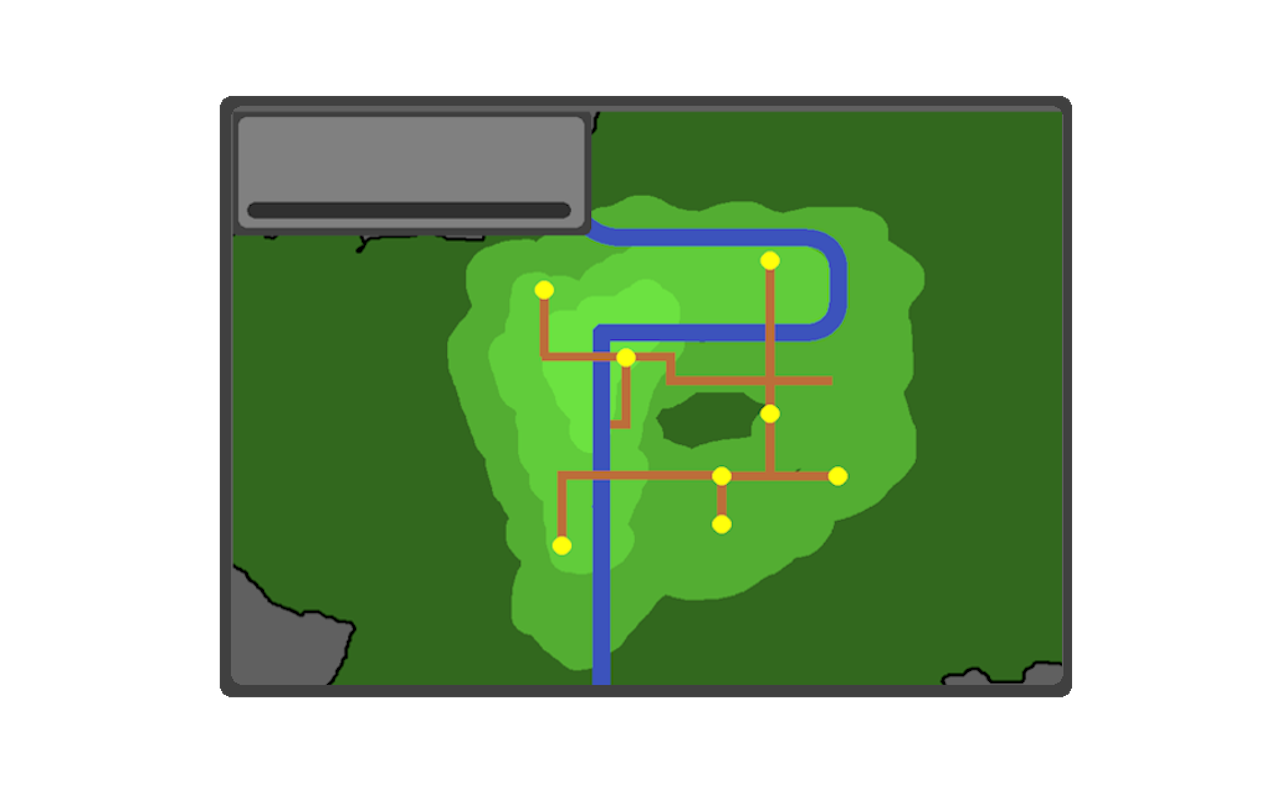
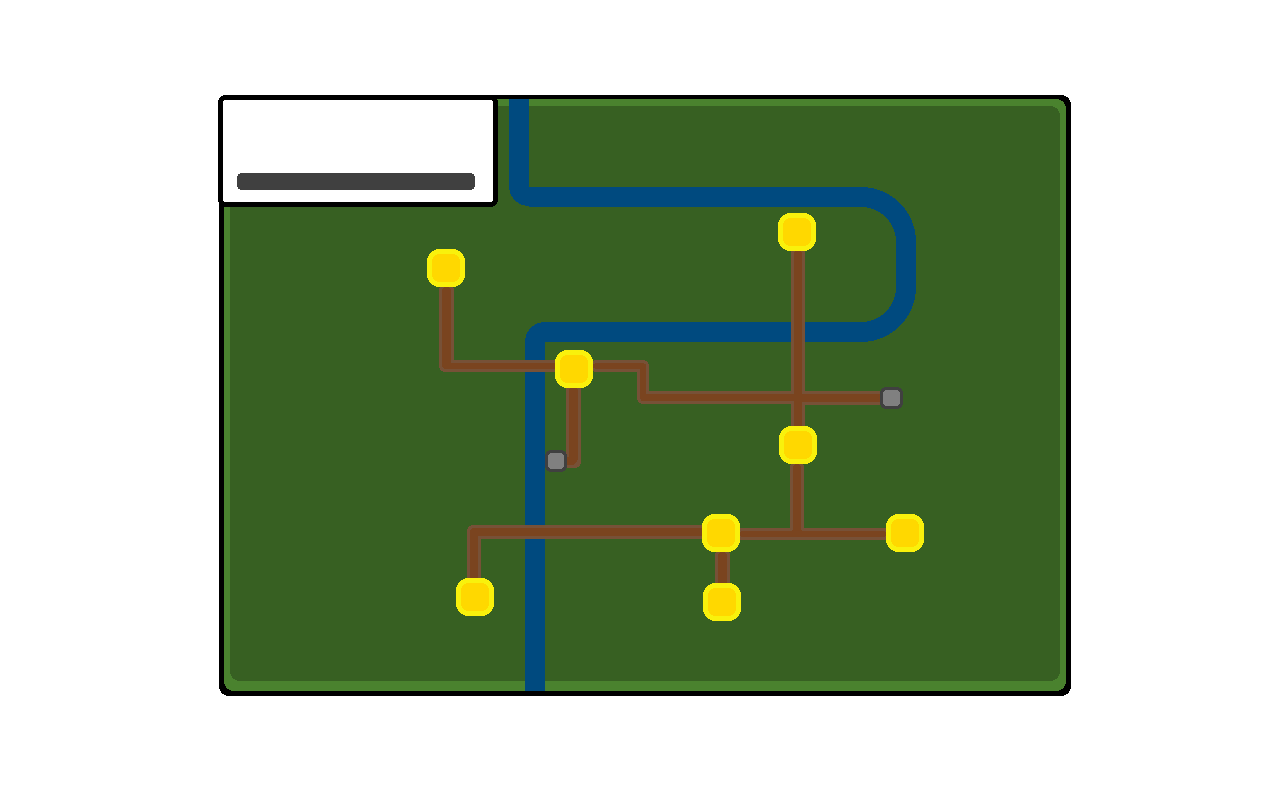
Mapa

Changed region(s): [[0.1525, 0.0936, 0.8538, 0.8739]]

diff --git a/eventy.py b/eventy.py
@@ -1,5 +1,7 @@
 import pygame
 import sys
+
+import battle
 import databaze
 import inventar
 import prahadex
@@ -45,7 +47,7 @@ def handle(hra, event):
             for item in hra.predmety:
                 item.sebrano(hra.mchitboxcol, inventar.inventory)
 
-        if not hra.shop and not hra.show and not hra.shopopen and not hra.show_prahadex and not hra.show_mapa:
+        if not hra.shop and not hra.show and not hra.shopopen and not hra.show_prahadex and not hra.show_mapa and not hra.battle:
             if event.key == pygame.K_ESCAPE:
                 hra.menu = not hra.menu
 
@@ -84,7 +86,8 @@ def handle(hra, event):
         if hra.show_inventar:
             if event.key == pygame.K_ESCAPE:
                 hra.show_inventar = False
-                hra.menu = True
+                if not hra.battle:
+                    hra.menu = True
                 hra.poziceinventare = 1
             if event.key == pygame.K_w:
                 if hra.poziceinventare > 1:
@@ -100,7 +103,8 @@ def handle(hra, event):
         if hra.show_prahadex:
             if event.key == pygame.K_ESCAPE:
                 hra.show_prahadex = False
-                hra.menu = True
+                if not hra.battle:
+                    hra.menu = True
                 hra.poziceinventare = 1
             if event.key == pygame.K_w:
                 if hra.poziceinventare > 1:
@@ -128,21 +132,26 @@ def handle(hra, event):
                 hra.menu = True
 
         if hra.battle:
-            if event.key == pygame.K_a:
-                if hra.pozice > 1:
-                    hra.pozice -= 1
-                elif hra.pozice == 1:
-                    hra.pozice = 4
+            if not hra.show_inventar:
+                if event.key == pygame.K_a:
+                    if hra.pozice > 1:
+                        hra.pozice -= 1
+                    elif hra.pozice == 1:
+                        hra.pozice = 4
 
-            if event.key == pygame.K_d:
-                if hra.pozice < 4:
-                    hra.pozice += 1
-                elif hra.pozice == 4:
-                    hra.pozice = 1
+                if event.key == pygame.K_d:
+                    if hra.pozice < 4:
+                        hra.pozice += 1
+                    elif hra.pozice == 4:
+                        hra.pozice = 1
 
-            if event.key == pygame.K_e:
-                if hra.pozice == 4:
-                    hra.battle = False
+                if event.key == pygame.K_e:
+                    if hra.pozice == 1:
+                        hra.protivnici[0].hp -= 1
+                    elif hra.pozice == 3:
+                        hra.show_inventar = True
+                    elif hra.pozice == 4:
+                        hra.battle = False
 
 
         if event.key == pygame.K_ESCAPE:

diff --git a/gadakecemol.py b/gadakecemol.py
@@ -126,7 +126,7 @@ class Hra:
             self.rychlost = 4
             imgs.rychlost_animace_chuze = 0.2
 
-        if not self.menu and not self.show and not self.show_mapa and not self.show_prahadex and not self.show_prahadex and not self.show_inventar and not self.shop:
+        if not self.menu and not self.show and not self.show_mapa and not self.show_prahadex and not self.show_prahadex and not self.show_inventar and not self.shop and not self.battle:
 
 
             if keys[pygame.K_w]:
@@ -214,7 +214,11 @@ class Hra:
                     self.kolizenpc = item
                     break
 
-            if self.randomtrava == 20 and self.mchitbox.colliderect(self.trava):
+            if hra.battle:
+                battle.draw(self.screen, self.font, self)
+                battle.sipecka(self.screen, imgs, self.pozice)
+
+            if self.randomtrava == 20 and self.mchitbox.colliderect(self.trava) and not hra.battle and not hra.menu:
                 self.battle = True
 
             if self.menu:
@@ -266,9 +270,7 @@ class Hra:
                     self.show = True
                     self.catch = False
 
-            if hra.battle:
-                battle.draw(self.screen, self.font, self)
-                battle.sipecka(self.screen, imgs, self.pozice)
+
             # pygame.draw.rect(self.screen, (0, 0, 0), (1060 - self.camera_x, 0 - self.camera_y, 820, 400), 2)
 
 
